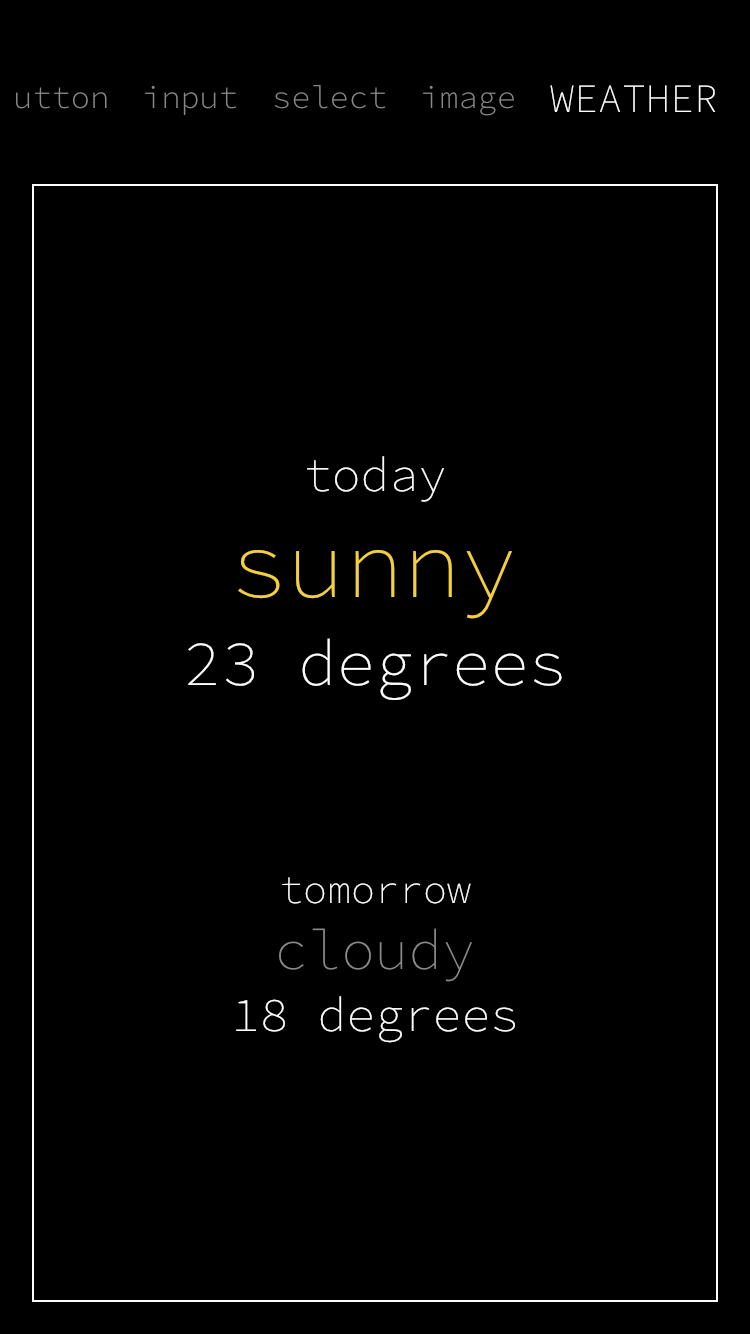
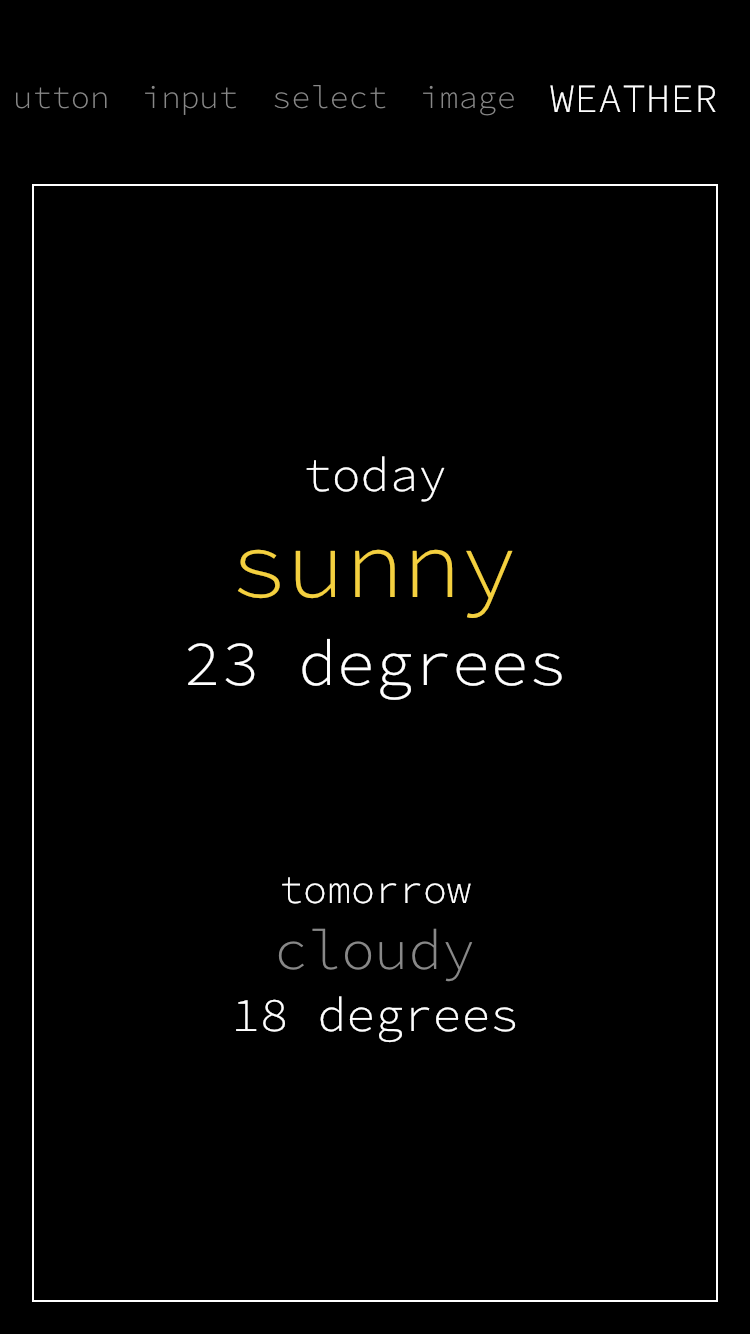
Add a bit weight to font

diff --git a/example/lib/app.dart b/example/lib/app.dart
@@ -14,7 +14,7 @@ class App extends StatelessWidget {
         debugShowCheckedModeBanner: false,
         onGenerateRoute: (RouteSettings settings) {
           return PageRouteBuilder(
-            pageBuilder: (context, animation, secondaryAnimation) {
+            pageBuilder: (_, __, ___) {
             switch (settings.name) {
               case '/detail':
                 return DetailScreen();
@@ -28,112 +28,6 @@ class App extends StatelessWidget {
         color: const Color(0xFF3743f7),
         initialRoute: '/', 
       ),
-    );
-  }
-}
-
-class FunkApp extends StatefulWidget {
-  const FunkApp({
-    Key key,
-    this.navigatorKey,
-    this.home,
-    this.routes = const <String, WidgetBuilder>{},
-    this.initialRoute,
-    this.onGenerateRoute,
-    this.onGenerateInitialRoutes,
-    this.onUnknownRoute,
-    this.navigatorObservers = const <NavigatorObserver>[],
-    this.builder,
-    this.title = '',
-    this.onGenerateTitle,
-    this.color,
-    this.theme,
-    this.darkTheme,
-    this.highContrastTheme,
-    this.highContrastDarkTheme,
-    this.themeMode = ThemeMode.blackAndWhite,
-    this.locale,
-    this.localizationsDelegates,
-    this.localeListResolutionCallback,
-    this.localeResolutionCallback,
-    this.supportedLocales = const <Locale>[Locale('en', 'US')],
-    this.debugShowMaterialGrid = false,
-    this.showPerformanceOverlay = false,
-    this.checkerboardRasterCacheImages = false,
-    this.checkerboardOffscreenLayers = false,
-    this.showSemanticsDebugger = false,
-    this.debugShowCheckedModeBanner = true,
-    this.shortcuts,
-    this.actions,
-    this.restorationScopeId,
-  });
-
-  final GlobalKey<NavigatorState> navigatorKey;
-  final Widget home;
-  final Map<String, WidgetBuilder> routes;
-  final String initialRoute;
-  final RouteFactory onGenerateRoute;
-  final InitialRouteListFactory onGenerateInitialRoutes;
-  final RouteFactory onUnknownRoute;
-  final List<NavigatorObserver> navigatorObservers;
-  final TransitionBuilder builder;
-  final String title;
-  final GenerateAppTitle onGenerateTitle;
-  final ThemeData theme;
-  final ThemeData darkTheme;
-  final ThemeData highContrastTheme;
-  final ThemeData highContrastDarkTheme;
-  final ThemeMode themeMode;
-  final Color color;
-  final Locale locale;
-  final Iterable<LocalizationsDelegate<dynamic>> localizationsDelegates;
-  final LocaleListResolutionCallback localeListResolutionCallback;
-  final LocaleResolutionCallback localeResolutionCallback;
-  final Iterable<Locale> supportedLocales;
-  final bool showPerformanceOverlay;
-  final bool checkerboardRasterCacheImages;
-  final bool checkerboardOffscreenLayers;
-  final bool showSemanticsDebugger;
-  final bool debugShowCheckedModeBanner;
-  final Map<LogicalKeySet, Intent> shortcuts;
-  final Map<Type, Action<Intent>> actions;
-  final String restorationScopeId;
-  final bool debugShowMaterialGrid;
-
-  @override
-  State<StatefulWidget> createState() => _FunkAppState();
-}
-
-class _FunkAppState extends State<FunkApp> {
-  @override
-  Widget build(BuildContext context) {
-    return WidgetsApp(
-      key: GlobalObjectKey(this),
-      navigatorKey: widget.navigatorKey,
-      navigatorObservers: widget.navigatorObservers,
-      home: widget.home,
-      routes: widget.routes,
-      initialRoute: widget.initialRoute,
-      onGenerateRoute: widget.onGenerateRoute,
-      onGenerateInitialRoutes: widget.onGenerateInitialRoutes,
-      onUnknownRoute: widget.onUnknownRoute,
-      title: widget.title,
-      onGenerateTitle: widget.onGenerateTitle,
-      textStyle: TextStyle(color: Colors.grey, fontSize: 14 ),
-      color: Colors.grey,
-      locale: widget.locale,
-      localizationsDelegates: widget.localizationsDelegates,
-      localeResolutionCallback: widget.localeResolutionCallback,
-      localeListResolutionCallback: widget.localeListResolutionCallback,
-      supportedLocales: widget.supportedLocales,
-      showPerformanceOverlay: widget.showPerformanceOverlay,
-      checkerboardRasterCacheImages: widget.checkerboardRasterCacheImages,
-      checkerboardOffscreenLayers: widget.checkerboardOffscreenLayers,
-      showSemanticsDebugger: widget.showSemanticsDebugger,
-      debugShowCheckedModeBanner: widget.debugShowCheckedModeBanner,
-      shortcuts: widget.shortcuts,
-      actions: widget.actions,
-      restorationScopeId: widget.restorationScopeId,
     );
   }
 }

diff --git a/lib/src/theme.dart b/lib/src/theme.dart
@@ -41,12 +41,12 @@ class ThemeData {
     TextStyle subTitle,
     TextStyle body,
     TextStyle button,
-  }): this.heading1 = TextStyle(fontSize: 48, color: color, fontFamily: 'Source Code Pro', fontWeight: FontWeight.w200, package: 'funk'),
-    this.heading2 = TextStyle(fontSize: 40, color: color, fontFamily: 'Source Code Pro', fontWeight: FontWeight.w200, package: 'funk'),
-    this.heading3 = TextStyle(fontSize: 32, color: color, fontFamily: 'Source Code Pro', fontWeight: FontWeight.w200, package: 'funk'),
-    this.heading4 = TextStyle(fontSize: 28, color: color, fontFamily: 'Source Code Pro', fontWeight: FontWeight.w200, package: 'funk'),
-    this.heading5 = TextStyle(fontSize: 24, color: color, fontFamily: 'Source Code Pro', fontWeight: FontWeight.w200, package: 'funk'),
-    this.heading6 = TextStyle(fontSize: 20, color: color, fontFamily: 'Source Code Pro', fontWeight: FontWeight.w200, package: 'funk'),
+  }): this.heading1 = TextStyle(fontSize: 48, color: color, fontFamily: 'Source Code Pro', fontWeight: FontWeight.w300, package: 'funk'),
+    this.heading2 = TextStyle(fontSize: 40, color: color, fontFamily: 'Source Code Pro', fontWeight: FontWeight.w300, package: 'funk'),
+    this.heading3 = TextStyle(fontSize: 32, color: color, fontFamily: 'Source Code Pro', fontWeight: FontWeight.w300, package: 'funk'),
+    this.heading4 = TextStyle(fontSize: 28, color: color, fontFamily: 'Source Code Pro', fontWeight: FontWeight.w300, package: 'funk'),
+    this.heading5 = TextStyle(fontSize: 24, color: color, fontFamily: 'Source Code Pro', fontWeight: FontWeight.w300, package: 'funk'),
+    this.heading6 = TextStyle(fontSize: 20, color: color, fontFamily: 'Source Code Pro', fontWeight: FontWeight.w300, package: 'funk'),
     this.title = TextStyle(fontSize: 18, color: color, fontFamily: 'Source Code Pro', fontWeight: FontWeight.w300, package: 'funk'),
     this.subTitle = TextStyle(fontSize: 16, color: Colors.grey, fontFamily: 'Source Code Pro', fontWeight: FontWeight.w300, package: 'funk'),
     this.body = TextStyle(fontSize: 14, color: color, fontFamily: 'Source Code Pro', package: 'funk'),

diff --git a/README.md b/README.md
@@ -14,10 +14,10 @@ dependencies:
 
 ## Screenshots
 
-<img src="https://github.com/kokemus/funk/blob/master/screenshots/text.png?raw=true" alt="Text" width="250"/>
-<img src="https://github.com/kokemus/funk/blob/master/screenshots/list.png?raw=true" alt="List" width="250"/>
-<img src="https://github.com/kokemus/funk/blob/master/screenshots/button.png?raw=true" alt="Button" width="250"/>
-<img src="https://github.com/kokemus/funk/blob/master/screenshots/input.png?raw=true" alt="Input" width="250"/>
-<img src="https://github.com/kokemus/funk/blob/master/screenshots/select.png?raw=true" alt="Select" width="250"/>
-<img src="https://github.com/kokemus/funk/blob/master/screenshots/image.png?raw=true" alt="Image" width="250"/>
-<img src="https://github.com/kokemus/funk/blob/master/screenshots/weather.png?raw=true" alt="Weather" width="250"/>
+<img src="https://github.com/kokemus/funk/blob/master/screenshots/text.png?raw=true" alt="Text" width="250">
+<img src="https://github.com/kokemus/funk/blob/master/screenshots/list.png?raw=true" alt="List" width="250">
+<img src="https://github.com/kokemus/funk/blob/master/screenshots/button.png?raw=true" alt="Button" width="250">
+<img src="https://github.com/kokemus/funk/blob/master/screenshots/input.png?raw=true" alt="Input" width="250">
+<img src="https://github.com/kokemus/funk/blob/master/screenshots/select.png?raw=true" alt="Select" width="250">
+<img src="https://github.com/kokemus/funk/blob/master/screenshots/image.png?raw=true" alt="Image" width="250">
+<img src="https://github.com/kokemus/funk/blob/master/screenshots/weather.png?raw=true" alt="Weather" width="250">
